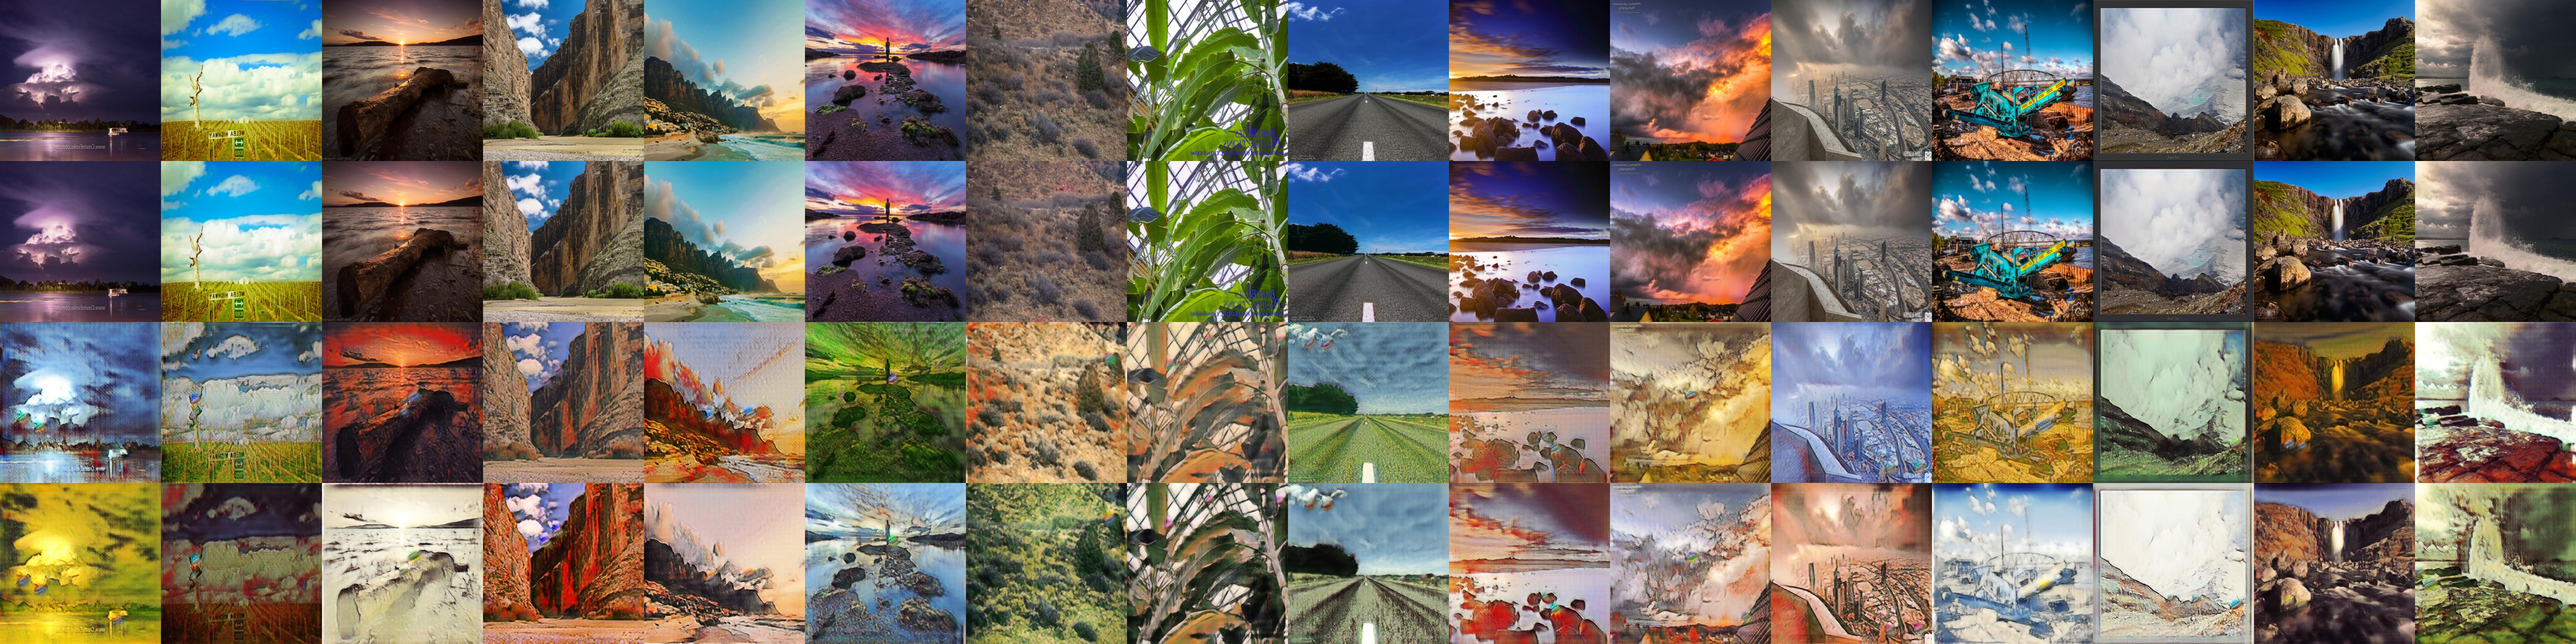
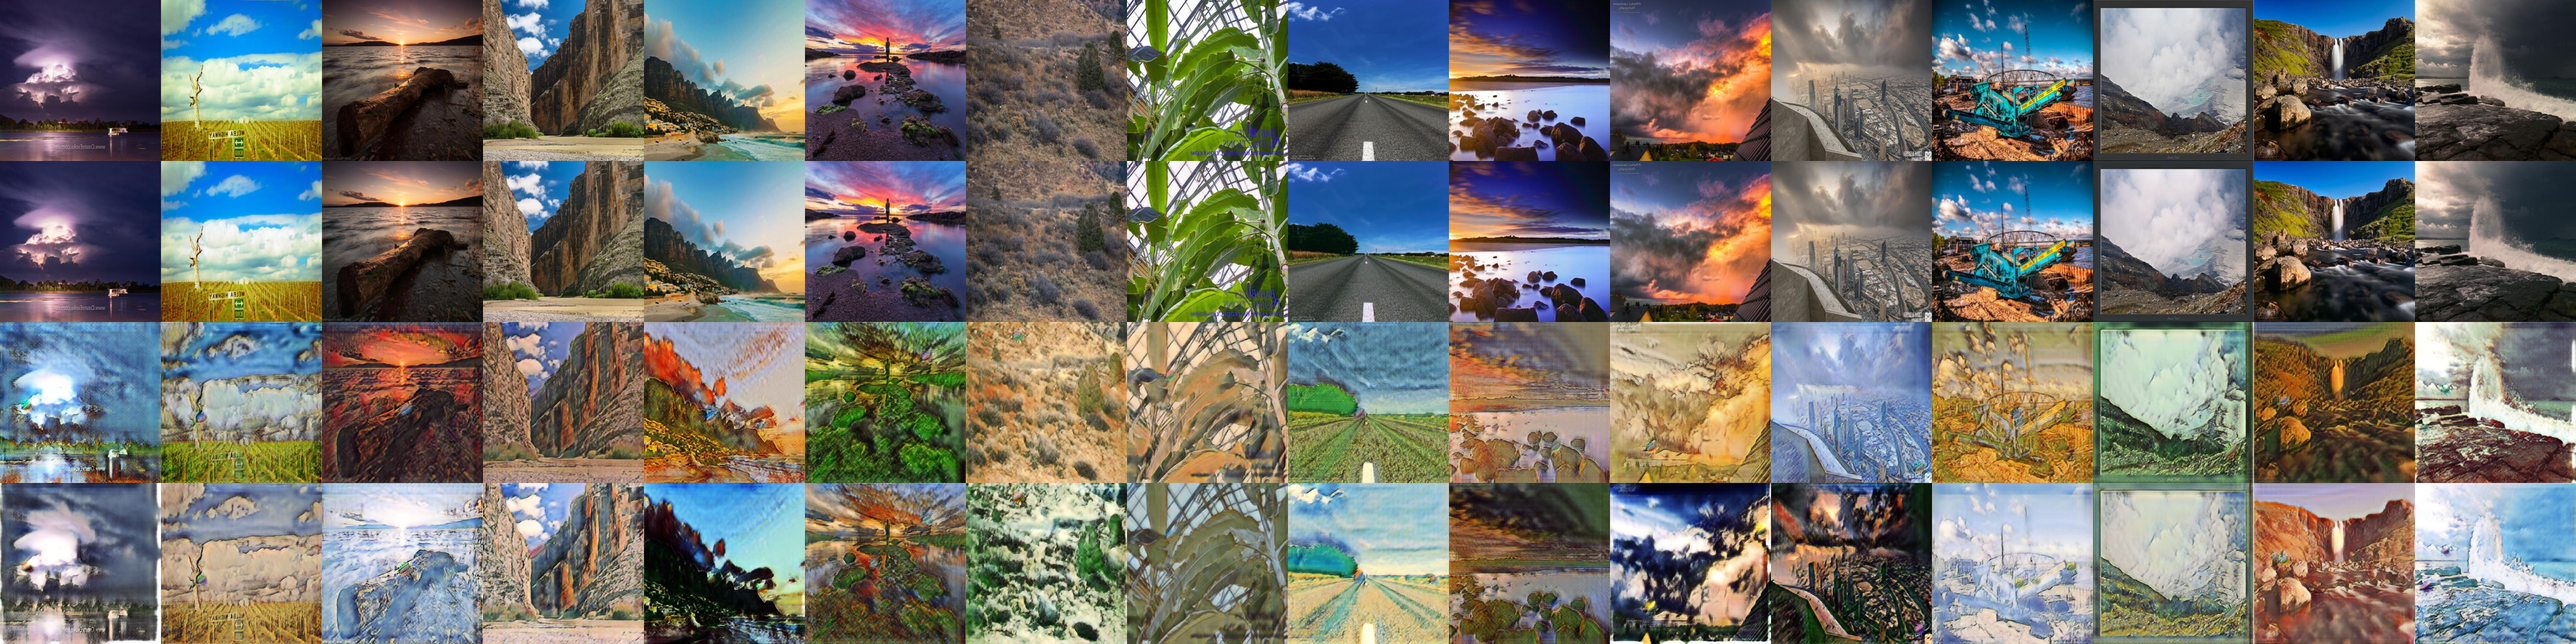
albert

diff --git a/model/pro_model.py b/model/pro_model.py
@@ -91,7 +91,7 @@ params = {
 'new_size': 384,                               # first resize the shortest image side to this size
 'crop_image_height': 384,                      # random crop image of this height
 'crop_image_width': 384,                       # random crop image of this width
-'data_root': '/home/diegushko/dataset/monet2photo'   # dataset folder location
+'data_root': '/home/diegushko/dataset/art2photo'   # dataset folder location
 }
 
 IMG_EXTENSIONS = [
